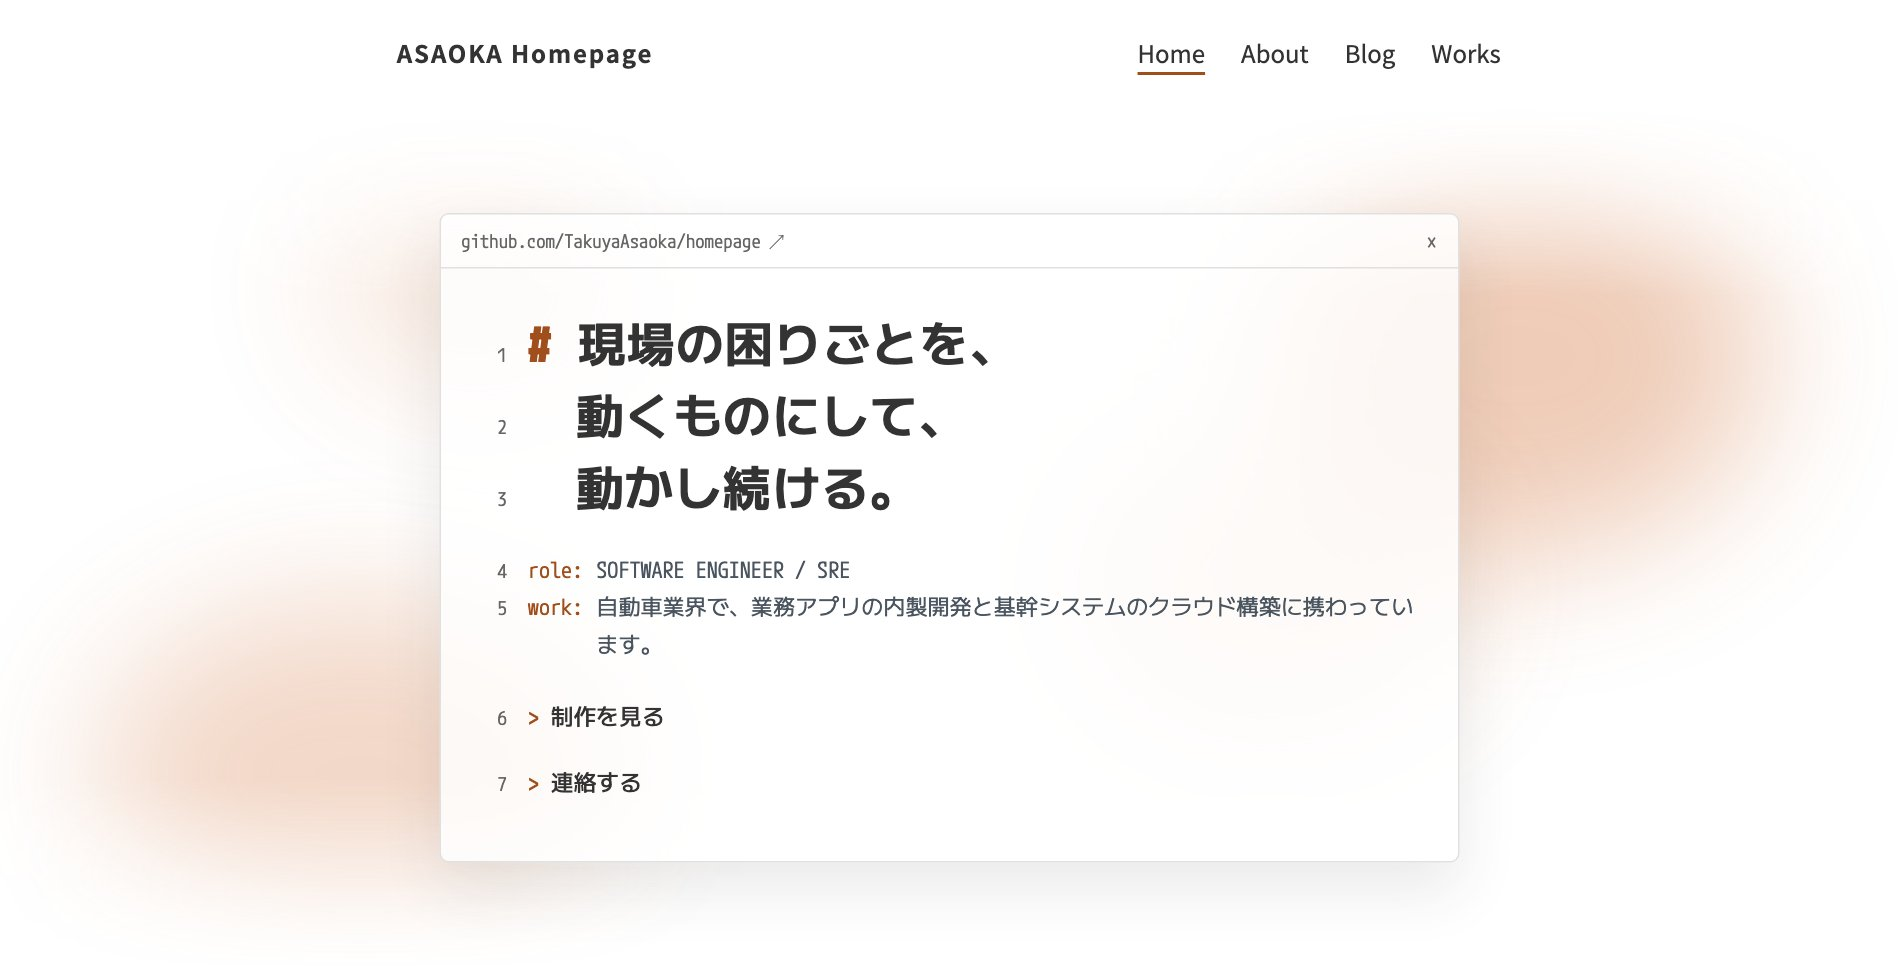
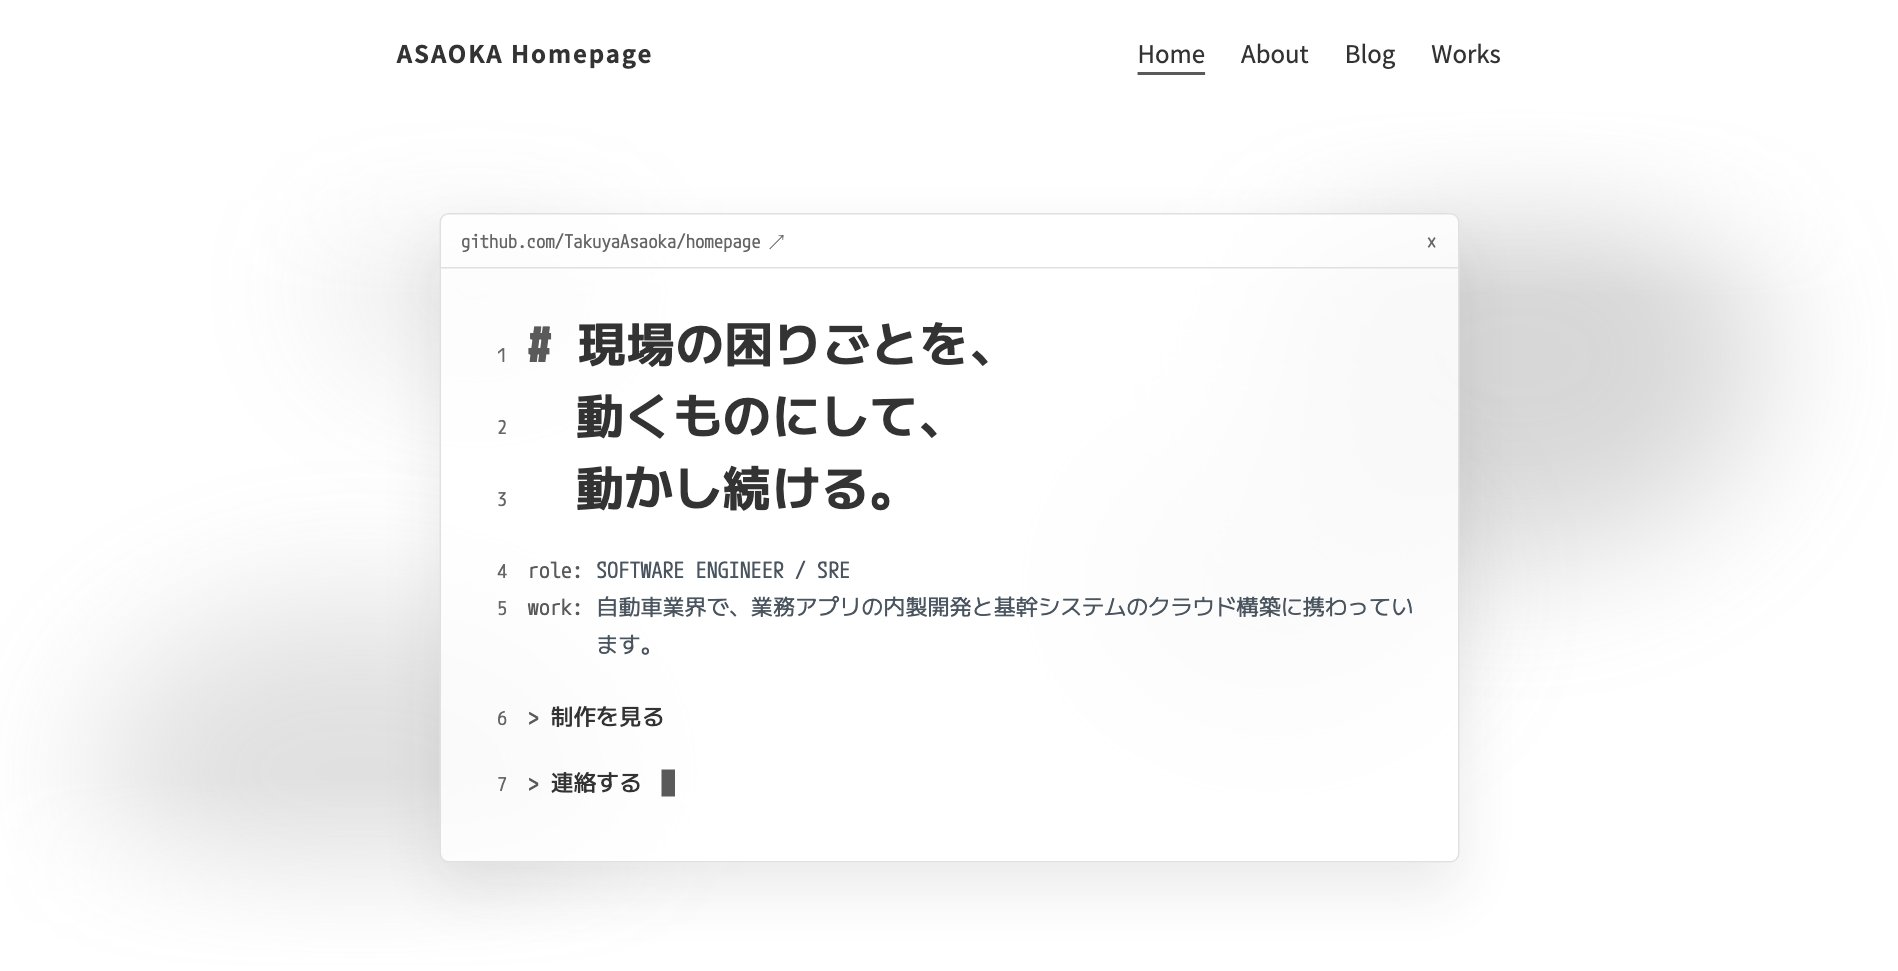
[design] 差し色を、色みの無い墨にする
持ち主が9色の候補から選んだ。制作「このホームページ」の画像も新しい色で撮り直す。

Claude-Session: https://claude.ai/code/session_017oarFQobeNqWuVcuCiYMJ6

diff --git a/src/styles/global.css b/src/styles/global.css
@@ -25,11 +25,11 @@
   --nav-progress-delay: 500ms;
 
   /* 差し色（単一情報源）。色値の定義はこの :root と下の @media dark の2か所だけに置く。
-     以前は季節で4色に切り替えていたが、1色に固定した（Issue #162）。
+     以前は季節で4色に切り替えていたが、色みの無い墨の1色に固定した（Issue #162）。
      --accent: 装飾用（下線・区切り記号・進行バー・ヒーローのにじみ）
      --accent-text: 文字用。白地で WCAG AA（4.5:1）を満たす濃色 */
-  --accent: #cf6a2e;
-  --accent-text: #a04e1c;
+  --accent: #8a8a8a;
+  --accent-text: #5a5a5a;
 }
 
 @media (prefers-color-scheme: dark) {
@@ -42,8 +42,8 @@
     --color-muted: #999999;
     /* 差し色のダーク版（暗い地でも沈まない明るさ）。
        暗い地で 4.5:1 以上あるため、文字用も同じ値にする */
-    --accent: #e0904f;
-    --accent-text: #e0904f;
+    --accent: #b0b0b0;
+    --accent-text: #b0b0b0;
   }
 }
 
